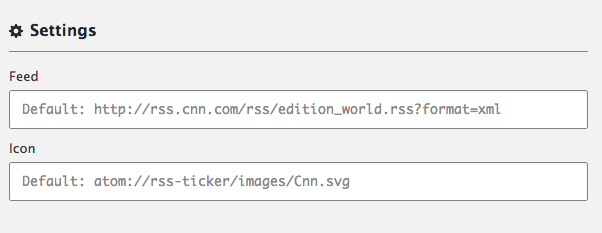
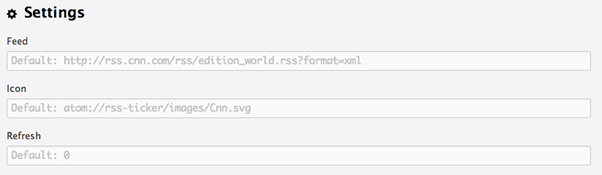
Fixed #13 updated styles folder name, Fixed menus, keyboard shortcuts, add refresh shortcut

diff --git a/README.md b/README.md
@@ -18,6 +18,7 @@ $ apm install rss-ticker
 
 Alternatively, if you are a git user, you can install the theme and keep up to date by cloning the repo directly into your `~/.atom/packages` directory.
 
+
 ```sh
 $ git clone https://github.com/afj176/rss-ticker/ ~/.atom/packages/rss-ticker
 ```
@@ -33,9 +34,6 @@ $ git clone https://github.com/afj176/rss-ticker/ ~/.atom/packages/rss-ticker
 
 Display your favorite rss feed in your status bar.
 
-#### Deactivating/Activating the plugin
-
-Keyboard shortcut `ctrl-shift-.` will toggle the RSS Ticker.
 
 #### Plugin settings page
 
@@ -50,17 +48,16 @@ RSS Ticker has two settings that can be edited:
 
 1. feed | default:`http://rss.cnn.com/rss/edition_world.rss?format=xml`
 2. icon | default:`atom://rss-ticker/images/Cnn.svg`
+3. refresh | default: `0` (if zero minutes only refreshes when open/close windows)
 
 
 
 ### Commands
 
-The following commands are available for users to keymap.
+The following commands are available and are keyboard shortcuts.
 
-* `rss-ticker:toggle` - Toggle the status bar entry
+* `rss-ticker:toggle` - Toggle rss in status bar - `ctrl-shift-.`
+* `rss-ticker:refresh` - Refresh feed - `ctrl-shift-;`
 
-## Coming Soon
 
-* Tests
-
-Feel free to open an issue to discuss potential features to add or improve.
+Feel free fork, contribute, to open an issue to discuss potential features to add or improve.
